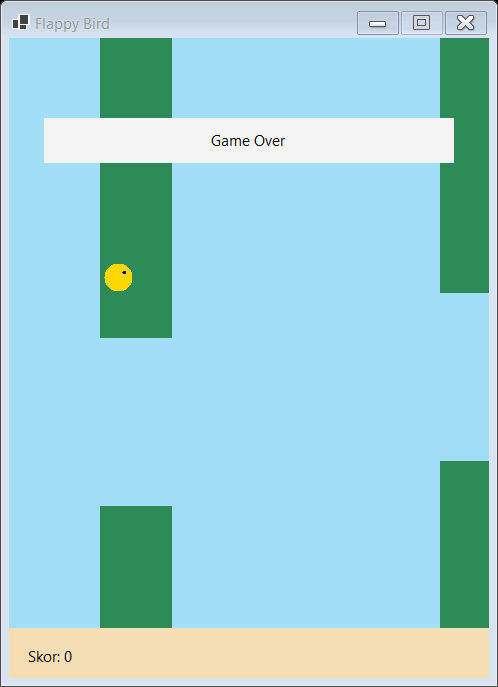
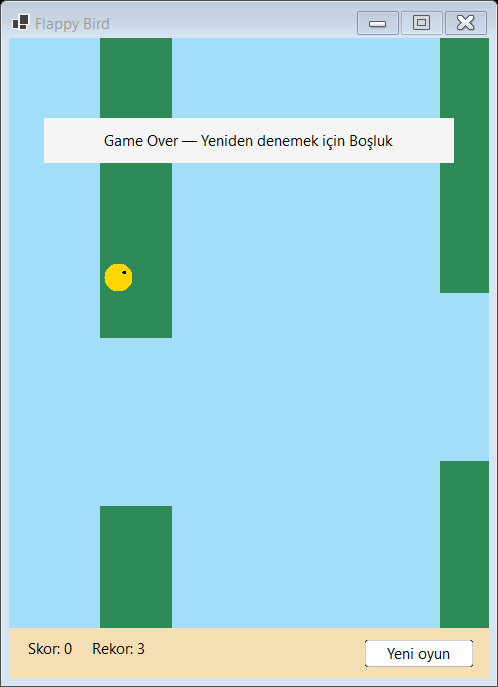
docs: update gameplay instructions and screenshots

diff --git a/README.md b/README.md
@@ -20,13 +20,13 @@ dotnet run --project FlappyBird/FlappyBird.csproj
 
 ## Kontroller ve oyun kuralları
 
-- **Boşluk:** Oyunu başlatır veya kuşu yukarı iter. Her zıplama için tuşa yeniden basın.
+- **Boşluk:** Oyunu başlatır veya kuşu yukarı iter. Her zıplama için tuşa yeniden basın. Game Over ekranında Boşluk yeni turu başlatır.
 - İki boru çifti sağdan sola ilerler. Ekrandan çıkan çift sağ tarafta yeni bir açıklıkla tekrar belirir.
 - **Yeni oyun:** Oyun durumunu ve skoru sıfırlar. Yeni turu Boşluk tuşuyla başlatabilirsiniz.
 
 ## Tasarım ve sınırlamalar
 
-`GameState` hareket, çarpışma, engeller ve skoru yönetir. Form klavye olaylarını alır, zamanlayıcıyla oyun durumunu günceller ve ekrana çizer. Çarpışma sınır dikdörtgenleriyle hesaplanır. Skor oturum belleğinde tutulur.
+`GameState` hareket, çarpışma, engeller ve skoru yönetir. Form klavye olaylarını alır, zamanlayıcıyla oyun durumunu günceller ve ekrana çizer. Çarpışma sınır dikdörtgenleriyle hesaplanır. Tur skoru her yeni oyunda sıfırlanır. Rekor, tur sonunda yükselirse Windows kullanıcı profilindeki `%LOCALAPPDATA%/FlappyBird/high-score.txt` dosyasına kaydedilir. Kayıt sorunu varsa oyun devam eder ve arayüzde durum gösterilir.
 
 ## Ekran görüntüleri
 
